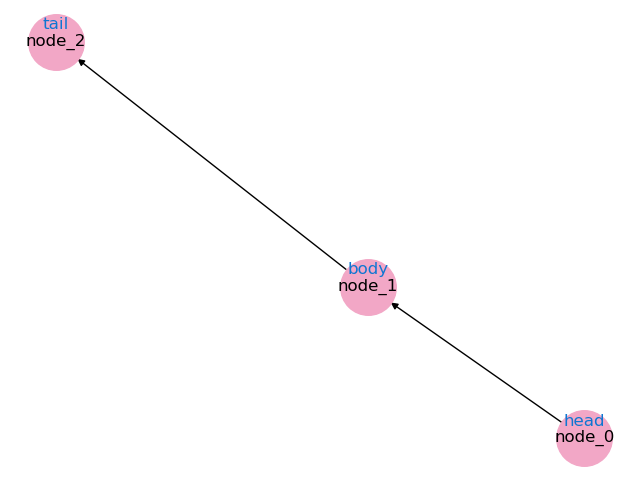
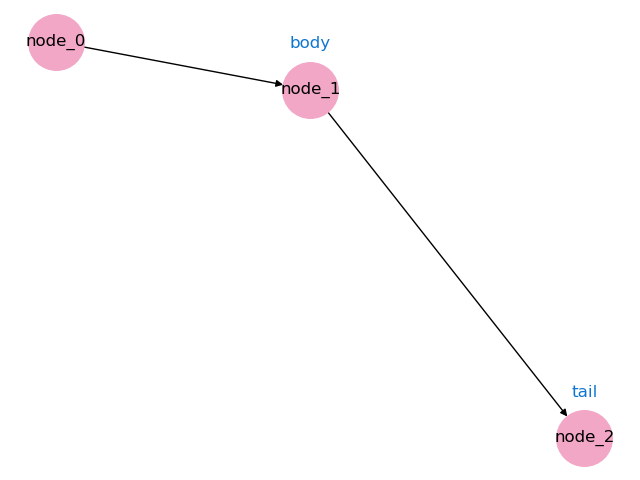
generating down, but a lot of details need elaboration

diff --git a/lambda_cps/design_generator/generator.py b/lambda_cps/design_generator/generator.py
@@ -57,6 +57,7 @@ class DesignGenerator(RuleParam):
         ax1 = plt.subplot(111)
         ax1.margins(0.3)
         plt.savefig(filename + ".png")
+        plt.close()
 
         return
 
@@ -69,8 +70,7 @@ class DesignGenerator(RuleParam):
         prev_graph_edge_list = prev_graph.get_edge_list()
         prev_graph_node_list = prev_graph.get_node_list()
 
-        print(prev_graph)
-        self.generate_networkx_image(prev_graph,"1")
+        # print(prev_graph)
         # exit()
 
         node_name_to_label_dict = {}
@@ -89,12 +89,16 @@ class DesignGenerator(RuleParam):
             orig_node_list = cur_rule[self.LEFT_RULE_NODE_TAG]
 
             if len(orig_edge_list) == 0:
-                # print(key, orig_node_list)
                 replaced_node = orig_node_list[0]
+
+                # print(cur_rule_name, replaced_node)
 
                 for i in range(len(prev_graph_node_list)):
                     target_node = prev_graph_node_list[i]
-                    if target_node.get_attributes()[self.label] == replaced_node.get_attributes()[self.require_label]:
+                    target_node_label = target_node.get_attributes()[self.label].replace('\'','').replace('\"','')
+                    replaced_node_label = replaced_node.get_attributes()[self.require_label].replace('\'','').replace('\"','')
+                    # print(target_node.get_attributes())
+                    if target_node_label == replaced_node_label:
                         possible_actions.append([self.node_to_, cur_rule_name, target_node.get_name()])
                         # print(output[-1])
 
@@ -120,6 +124,7 @@ class DesignGenerator(RuleParam):
                     else:
                         # print(graph_info)
                         # print(graph_info.get_node("body"))
+                        # print(node_name_to_label_dict)
                         # print(target_edge.get_destination(), node_name_to_label_dict[target_edge.get_destination()])
                         if replaced_edge_source == self.parent_node and replaced_edge_des == self.child_node:
                             possible_actions.append([self.edge_to_both, cur_rule_name, target_edge.get_source(), target_edge.get_destination()])
@@ -137,12 +142,18 @@ class DesignGenerator(RuleParam):
 
     def pick_action(self, possible_action_list):
 
+        # print(possible_action_list[1])
+        # return possible_action_list[1]
+
         return possible_action_list[random.randint(0, len(possible_action_list)-1)]
 
-    def take_action(self, prev_graph, node_name_dict, picked_action):
+    def take_action(self, prev_graph, node_name_dict, picked_action, node_count):
 
         cur_graph = prev_graph
+        temp_orig_name_2_new_name_dict = {}
+        cur_node_count = node_count
 
+        print(prev_graph)
         print('picked_action', picked_action)
 
         # exit()
@@ -151,30 +162,125 @@ class DesignGenerator(RuleParam):
         edit_rule = picked_action[1]
         right_hand_side_replacement = self.production_rules_dict[edit_rule][self.RIGHT_GRAPH_TAG]
         rhs_graph_edge_list = self.production_rules_dict[edit_rule][self.RIGHT_RULE_EDGE_TAG]
+        lhs_graph_edge_list = self.production_rules_dict[edit_rule][self.LEFT_RULE_EDGE_TAG]
         rhs_graph_node_list = self.production_rules_dict[edit_rule][self.RIGHT_RULE_NODE_TAG]
 
 
-        for i in rhs_graph_node_list:
-            # graph_info.add_node(i)
-            print(i)
 
-            orig_name = i.get_name()
-            if orig_name != 'child' and orig_name != 'parent':
-                orig_label = i.get_attributes()[self.label].replace('\"', '')
-                new_name = 'node_' + str(len(node_name_dict))
-                cur_graph.add_node(pydot.Node(new_name, label=orig_label))
-                node_name_dict[orig_name] = new_name
+        if edit_method != self.node_to_:
 
-                print(new_name, orig_name, orig_label)
+            for i in rhs_graph_node_list:
+                # graph_info.add_node(i)
+                # print(i)
+                # print(node_name_dict)
+                orig_name = i.get_name()
+                if orig_name != 'child' and orig_name != 'parent':
+                    orig_label = i.get_attributes()[self.label].replace('\"', '').replace('\'', '')
+                    new_name = 'node_' + str(cur_node_count)
+                    # print(new_name,cur_node_count)
+                    cur_node_count = cur_node_count + 1
+                    cur_graph.add_node(pydot.Node(new_name, label=orig_label))
+                    node_name_dict[new_name] = orig_name
+                    temp_orig_name_2_new_name_dict[orig_name] = new_name
 
-        exit()
+                # print(node_name_dict, new_name, orig_name, orig_label)
 
-        for i in rhs_graph_edge_list:
-            cur_graph.add_edge(i)
+        # exit()
+
+        # print(node_name_dict)
+
+            # This is the hard code to handle terminal node
+            # Notice: It should be elaborated in the future !!!!
+            # ????????
+            if len(rhs_graph_edge_list) > 0:
+                cur_graph.del_edge(picked_action[2], picked_action[3])
+
+                if edit_method == self.edge_to_both:
+                    cur_graph.del_node(picked_action[2])
+                    cur_graph.del_node(picked_action[3])
+                elif edit_method == self.edge_to_child:
+                    cur_graph.del_node(picked_action[3])
+                elif edit_method == self.edge_from_parent:
+                    cur_graph.del_node(picked_action[2])
+
+            for i in rhs_graph_edge_list:
+                orig_edge_source = i.get_source()
+                orig_edge_des = i.get_destination()
+                edge_attr = i.get_attributes()
+                edge_label = ''
+                if self.label in edge_attr:
+                    edge_label = edge_attr[self.label].replace('\"', '').replace('\'', '')
+
+                if orig_edge_source == 'parent' and orig_edge_des == 'child':
+                    orig_edge_source = picked_action[2]
+                    orig_edge_des = picked_action[3]
+                elif orig_edge_source == 'parent':
+                    orig_edge_source = picked_action[2]
+                    orig_edge_des = temp_orig_name_2_new_name_dict[orig_edge_des]
+                elif orig_edge_des == 'child':
+                    orig_edge_source = temp_orig_name_2_new_name_dict[orig_edge_source]
+                    orig_edge_des = picked_action[3]
+                else:
+                    orig_edge_source = temp_orig_name_2_new_name_dict[orig_edge_source]
+                    orig_edge_des = temp_orig_name_2_new_name_dict[orig_edge_des]
+
+                cur_graph.add_edge(pydot.Edge(orig_edge_source, orig_edge_des, label=edge_label))
+
+        else:
+
+            fixed_node_name = picked_action[2]
+            fixed_node_label = cur_graph.get_node(fixed_node_name)[0].get_attributes()[self.label]\
+                .replace('\"', '').replace('\'', '')
+            for i in rhs_graph_node_list:
+
+                orig_name = i.get_name()
+                if orig_name != 'child' and orig_name != 'parent':
+                    # print(i.get_attributes())
+                    orig_label = i.get_attributes()[self.label].replace('\"', '').replace('\'', '')
+                    if orig_label != fixed_node_label:
+                        new_name = 'node_' + str(cur_node_count)
+                        # print(new_name,cur_node_count)
+                        cur_node_count = cur_node_count + 1
+                        cur_graph.add_node(pydot.Node(new_name, label=orig_label))
+                        node_name_dict[new_name] = orig_name
+                        temp_orig_name_2_new_name_dict[orig_name] = new_name
+                    else:
+                        node_name_dict[fixed_node_name] = orig_name
+                        temp_orig_name_2_new_name_dict[orig_name] = fixed_node_name
+
+            for i in rhs_graph_edge_list:
+                orig_edge_source = i.get_source()
+                orig_edge_des = i.get_destination()
+                edge_attr = i.get_attributes()
+                edge_label = ''
+                if self.label in edge_attr:
+                    edge_label = edge_attr[self.label].replace('\"', '').replace('\'', '')
+
+                orig_edge_source = temp_orig_name_2_new_name_dict[orig_edge_source]
+                orig_edge_des = temp_orig_name_2_new_name_dict[orig_edge_des]
+
+                cur_graph.add_edge(pydot.Edge(orig_edge_source, orig_edge_des, label=edge_label))
 
         print(cur_graph)
 
-        return
+        return cur_graph, node_name_dict, cur_node_count
+
+    def get_a_new_design_with_max_steps(self, input_graph, max_steps):
+
+        cur_graph = input_graph
+
+        self.generate_networkx_image(cur_graph,"1")
+
+        node_count = len(input_graph.get_node_list())
+        for i in range(max_steps):
+            name_dict, action_list = self.get_all_possible_next_rules(cur_graph)
+            next_step = self.pick_action(action_list)
+            cur_graph, name_dict, node_count = self.take_action(cur_graph, name_dict, next_step, node_count)
+
+        # print(cur_graph)
+        self.generate_networkx_image(cur_graph, "2")
+        return cur_graph
+
 
     def get_all_possible_next_rules_old(self, prev_graph, prev_rule_list):
 

diff --git a/tests/test_generator.py b/tests/test_generator.py
@@ -10,8 +10,9 @@ if __name__ == '__main__':
     rule_dict = new_parser.get_rule_dict()
     new_generator = DesignGenerator(rule_dict)
     init_graph, init_rule_list = new_parser.get_empty_sketch()
-    name_dict, action_list = new_generator.get_all_possible_next_rules(init_graph)
 
-    next_step = new_generator.pick_action(action_list)
+    # name_dict, action_list = new_generator.get_all_possible_next_rules(init_graph)
+    # next_step = new_generator.pick_action(action_list)
+    # new_generator.take_action(init_graph, name_dict, next_step)
 
-    new_generator.take_action(init_graph, name_dict, next_step)
+    new_generator.get_a_new_design_with_max_steps(init_graph, 4)

diff --git a/lambda_cps/parsing/parser.py b/lambda_cps/parsing/parser.py
@@ -26,6 +26,7 @@ class RuleParam:
 
         self.require_label = 'require_label'
         self.label = 'label'
+        self.node_count = 'count'
 
 
 class Parser(RuleParam):
@@ -102,7 +103,7 @@ class Parser(RuleParam):
 
         # print(right_side)
 
-        new_design = pydot.Dot('new-design', graph_type='digraph', bgcolor="yellow")
+        new_design = pydot.Dot('new-design', graph_type='digraph')
 
         replace_name_dict = {}
 
